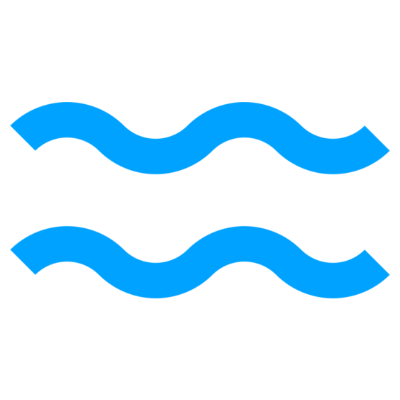
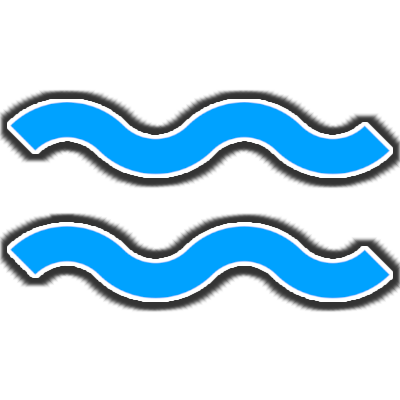
made default image, experimenting with designs for horoscope images so that it can be seen better

Changed region(s): [[0.0, 0.21, 1.0, 0.48], [0.0, 0.51, 1.0, 0.78]]

diff --git a/source/horoscope/horoscope.html b/source/horoscope/horoscope.html
@@ -25,7 +25,7 @@
                 <br>
                 <input type="button" id="submit" value="SUBMIT">
             </form>
-            <img id="sign-image" src="https://placehold.co/400"> 
+            <img id="sign-image" src="images/placeholder.png"> 
             <h1 id="sign-display"> Find your sign!</h1>
         </div>
         <div id="output" class="flex-column">

diff --git a/source/horoscope/css/horoscope.css b/source/horoscope/css/horoscope.css
@@ -125,4 +125,3 @@ input[type="button"]:focus {
     outline: none;
     box-shadow: 0 0 0 2px #1A237E; /*dark blue*/
 }
-
